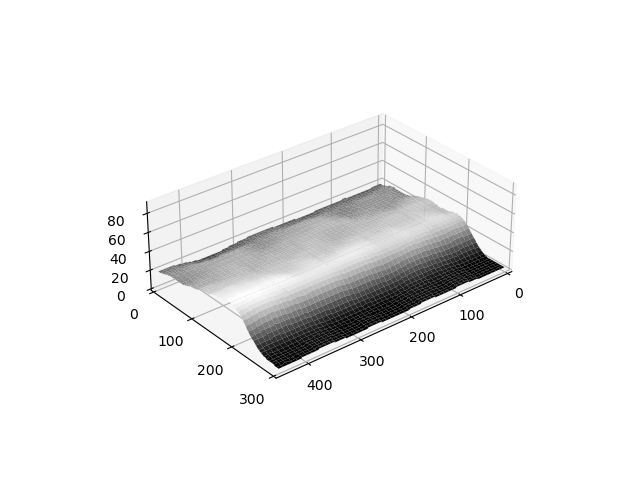
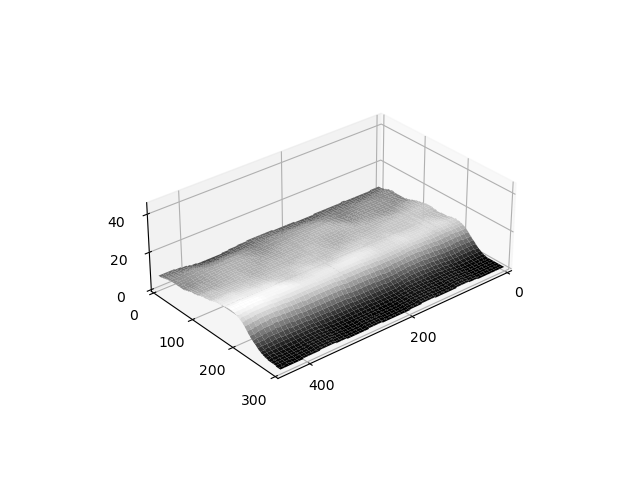
Updated slopes

diff --git a/slope_test.py b/slope_test.py
@@ -46,7 +46,7 @@ def convolve(image, kernel, scale):
 
             # slope = int((slope1+slope3)/2)
             slope = int((slope1+slope2+slope3+slope4)/4)
-            image_decreased_2[(y-pad)//stride-1, (x-pad)//stride - 1] = slope
+            image_decreased_2[(y-pad)//stride-1, (x-pad)//stride - 1] = slope + 2
 
             # image_decreased_2[y//2-pad,x//2-pad] = slope
             # image_decreased_2[int((y-pad)//2-pad//2),int((x-pad)//2-pad//2)] = slope
@@ -102,13 +102,13 @@ def correct_image(blur, slope_range):
     #             blur[x][y] = 0
     #         print(blur[x][y])
             
-    # 20, 30 height
-    for x in range(height):
-        for y in range(width):
-            blur[x][y] = blur[x][y] - int(25 - y * 25/576)
-            if (blur[x][y] > 150):
-                blur[x][y] = 0
-            print(blur[x][y])
+    # # 20, 30 height
+    # for x in range(height):
+    #     for y in range(width):
+    #         blur[x][y] = blur[x][y] - int(25 - y * 25/576)
+    #         if (blur[x][y] > 150):
+    #             blur[x][y] = 0
+    #         print(blur[x][y])
 
     return blur
 
@@ -156,7 +156,7 @@ def main():
 
     blur = cv2.GaussianBlur(vor_image_gray, (45,45), 0)
     z = correct_image(blur, slope_range)
-    # z = estimate_slope(z)
+    z = estimate_slope(z)
 
     kernel_size = 45
     kernel = np.ones((kernel_size, kernel_size), np.float32) / (kernel_size * kernel_size)
@@ -192,8 +192,8 @@ def main():
     plt.rc('font', size=20)
     ax.set_xlim(0, img_w / 1)
     ax.set_ylim(0, img_h / 1)
-    ax.set_zlim(0, 90 / 1)  # height
-    # ax.set_zlim(0, 90)  # slope
+    # ax.set_zlim(0, 90 / 1)  # height
+    ax.set_zlim(0, 90 / 2)  # slope
     plt.grid(True, linestyle='--', alpha=0.7)
     
     # plt.tick_params(axis='both', labelsize=20)
